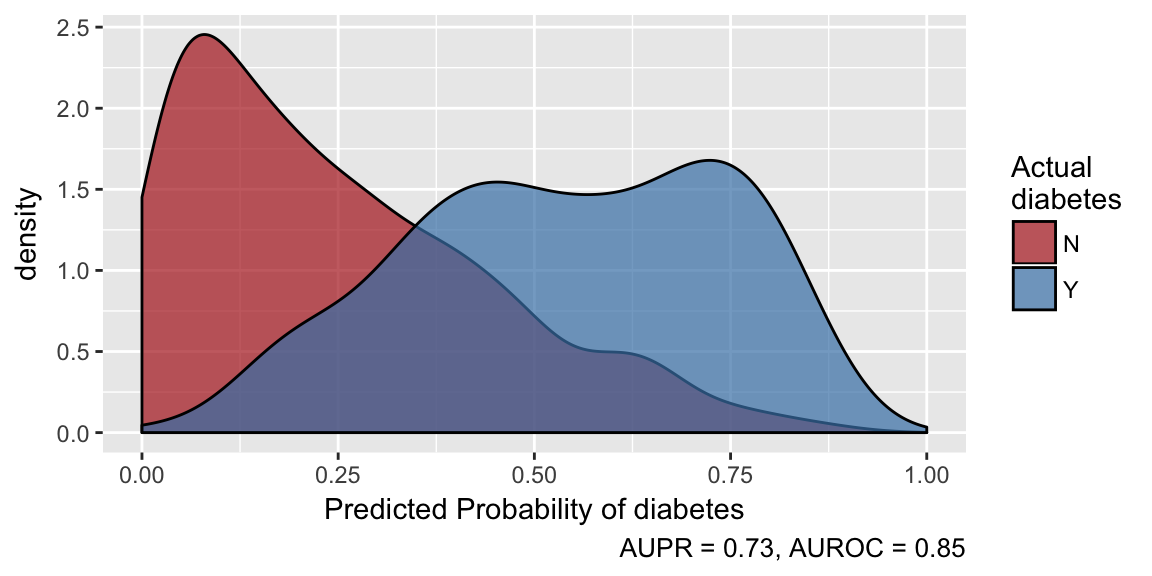
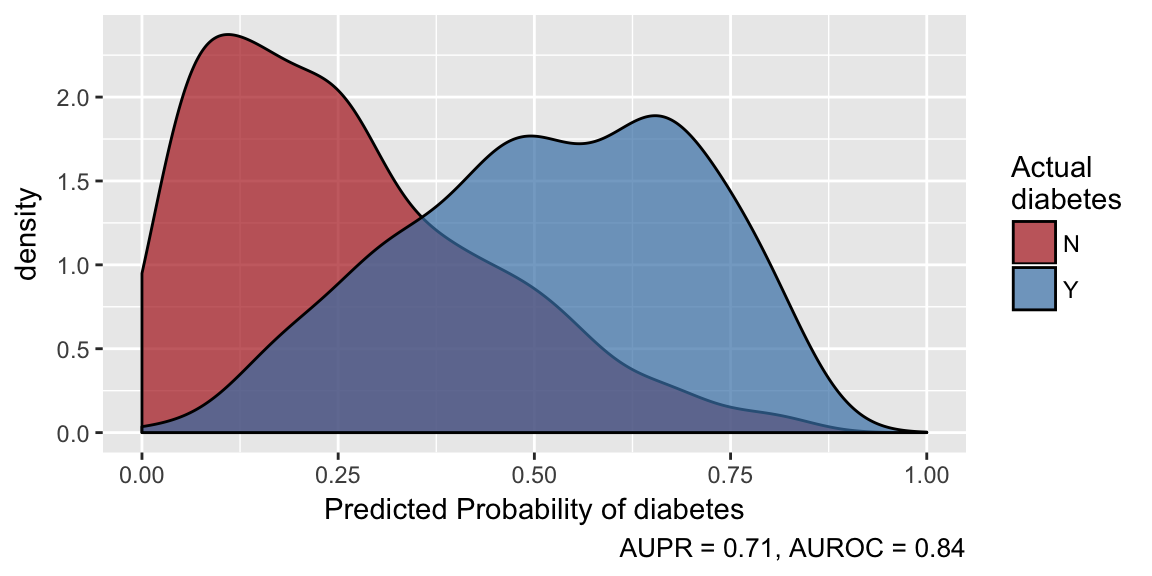
finally corrected links.

diff --git a/docs/index.html b/docs/index.html
@@ -59,10 +59,13 @@
       <a href="articles/site_only/db_connections.html">Database Connections</a>
     </li>
     <li>
-      <a href="articles/site_only/deploy_model.html">Deploying a model</a>
+      <a href="articles/site_only/deploy_model.html">Deploying a Model</a>
     </li>
     <li>
       <a href="articles/site_only/transitioning.html">Transition from Version 1</a>
+    </li>
+    <li>
+      <a href="articles/site_only/performance.html">Perforamnce with Big Data</a>
     </li>
   </ul>
 </li>
@@ -137,15 +140,15 @@ models
 <span class="co"># &gt; Performance Metric: AUROC</span>
 <span class="co"># &gt; Number of Observations: 768</span>
 <span class="co"># &gt; Number of Features: 12</span>
-<span class="co"># &gt; Models Trained: 2018-06-25 11:53:12 </span>
+<span class="co"># &gt; Models Trained: 2018-06-25 13:20:48 </span>
 <span class="co"># &gt; </span>
 <span class="co"># &gt; Models tuned via 5-fold cross validation over 9 combinations of hyperparameter values.</span>
 <span class="co"># &gt; Best model: Random Forest</span>
-<span class="co"># &gt; AUPR = 0.72, AUROC = 0.85</span>
+<span class="co"># &gt; AUPR = 0.71, AUROC = 0.84</span>
 <span class="co"># &gt; Optimal hyperparameter values:</span>
-<span class="co"># &gt;   mtry = 4</span>
-<span class="co"># &gt;   splitrule = extratrees</span>
-<span class="co"># &gt;   min.node.size = 9</span></code></pre></div>
+<span class="co"># &gt;   mtry = 2</span>
+<span class="co"># &gt;   splitrule = gini</span>
+<span class="co"># &gt;   min.node.size = 15</span></code></pre></div>
 <p>Make predictions and examine predictive performance:</p>
 <div class="sourceCode"><pre class="sourceCode r"><code class="sourceCode r">predictions &lt;-<span class="st"> </span><span class="kw">predict</span>(models)
 <span class="kw">plot</span>(predictions)</code></pre></div>

diff --git a/docs/CONTRIBUTING.html b/docs/CONTRIBUTING.html
@@ -92,13 +92,13 @@
       <a href="articles/site_only/db_connections.html">Database Connections</a>
     </li>
     <li>
-      <a href="articles/site_only/deploy_model.html">Deploying a model</a>
+      <a href="articles/site_only/deploy_model.html">Deploying a Model</a>
     </li>
     <li>
       <a href="articles/site_only/transitioning.html">Transition from Version 1</a>
     </li>
     <li>
-      <a href="articles/site_only/performance.html">Performance with Big Data</a>
+      <a href="articles/site_only/performance.html">Perforamnce with Big Data</a>
     </li>
   </ul>
 </li>

diff --git a/docs/LICENSE-text.html b/docs/LICENSE-text.html
@@ -92,13 +92,13 @@
       <a href="articles/site_only/db_connections.html">Database Connections</a>
     </li>
     <li>
-      <a href="articles/site_only/deploy_model.html">Deploying a model</a>
+      <a href="articles/site_only/deploy_model.html">Deploying a Model</a>
     </li>
     <li>
       <a href="articles/site_only/transitioning.html">Transition from Version 1</a>
     </li>
     <li>
-      <a href="articles/site_only/performance.html">Performance with Big Data</a>
+      <a href="articles/site_only/performance.html">Perforamnce with Big Data</a>
     </li>
   </ul>
 </li>

diff --git a/docs/authors.html b/docs/authors.html
@@ -92,13 +92,13 @@
       <a href="articles/site_only/db_connections.html">Database Connections</a>
     </li>
     <li>
-      <a href="articles/site_only/deploy_model.html">Deploying a model</a>
+      <a href="articles/site_only/deploy_model.html">Deploying a Model</a>
     </li>
     <li>
       <a href="articles/site_only/transitioning.html">Transition from Version 1</a>
     </li>
     <li>
-      <a href="articles/site_only/performance.html">Performance with Big Data</a>
+      <a href="articles/site_only/performance.html">Perforamnce with Big Data</a>
     </li>
   </ul>
 </li>

diff --git a/docs/issue_template.html b/docs/issue_template.html
@@ -92,13 +92,13 @@
       <a href="articles/site_only/db_connections.html">Database Connections</a>
     </li>
     <li>
-      <a href="articles/site_only/deploy_model.html">Deploying a model</a>
+      <a href="articles/site_only/deploy_model.html">Deploying a Model</a>
     </li>
     <li>
       <a href="articles/site_only/transitioning.html">Transition from Version 1</a>
     </li>
     <li>
-      <a href="articles/site_only/performance.html">Performance with Big Data</a>
+      <a href="articles/site_only/performance.html">Perforamnce with Big Data</a>
     </li>
   </ul>
 </li>
